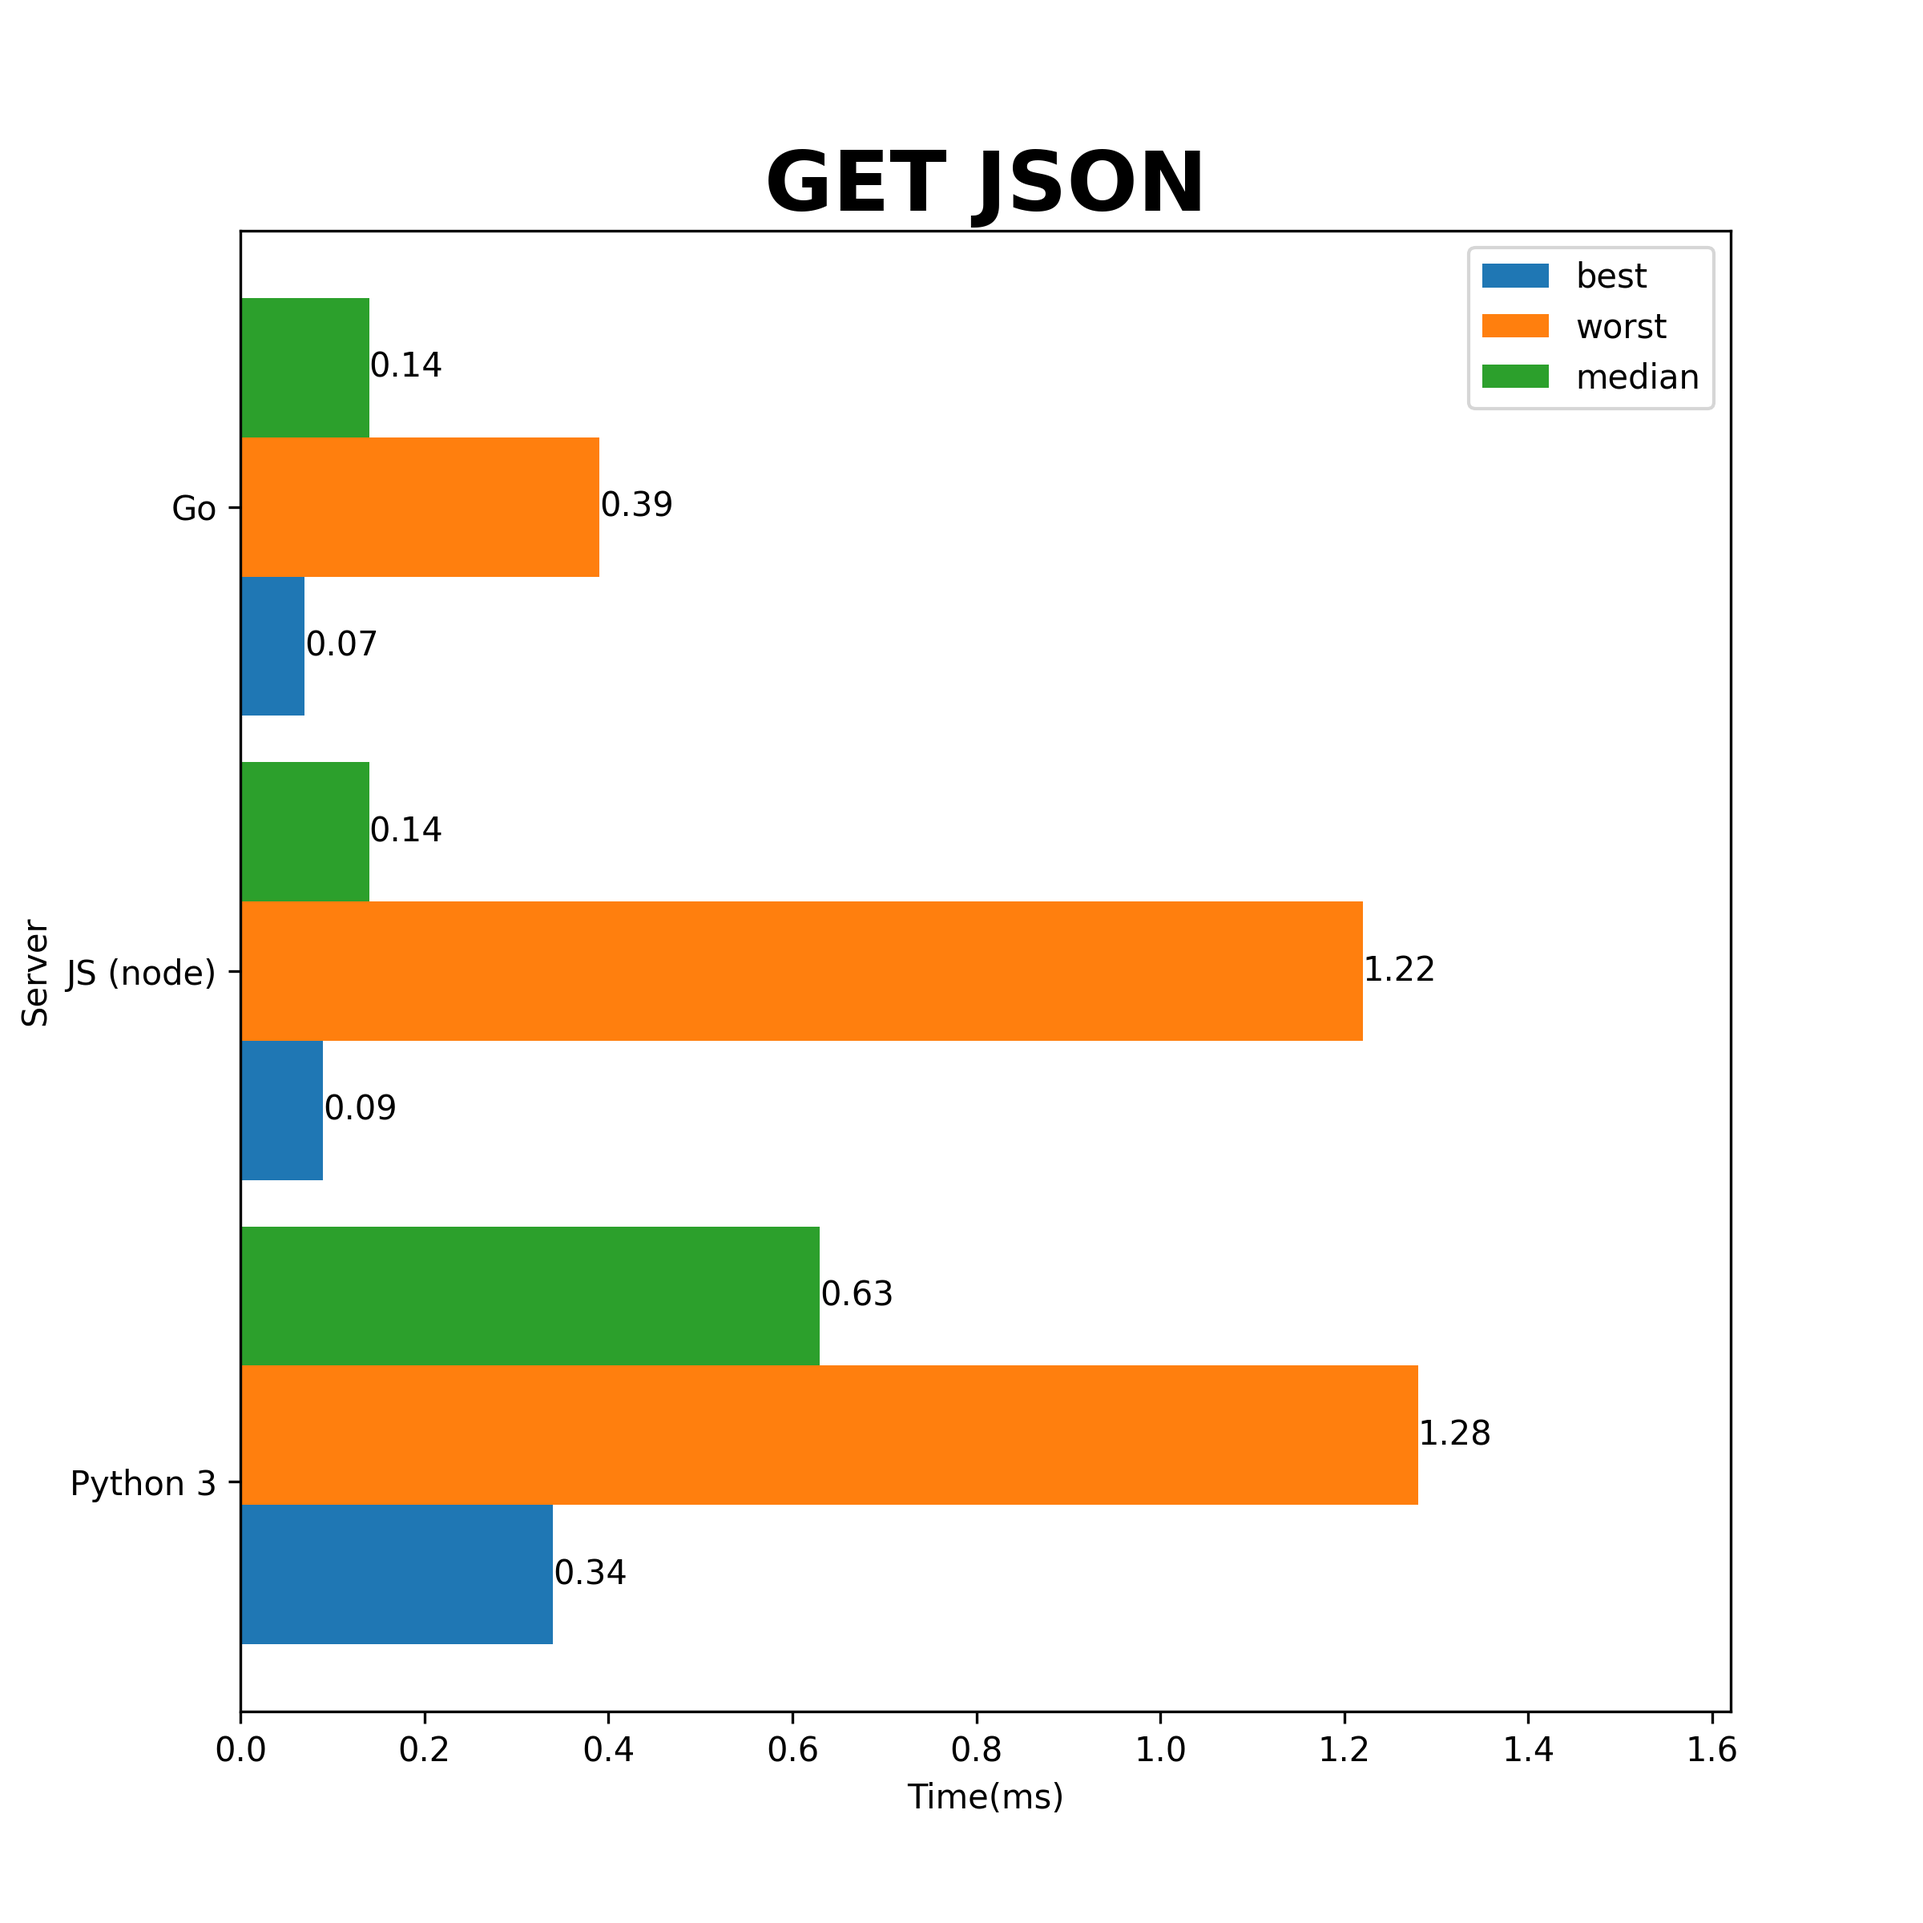
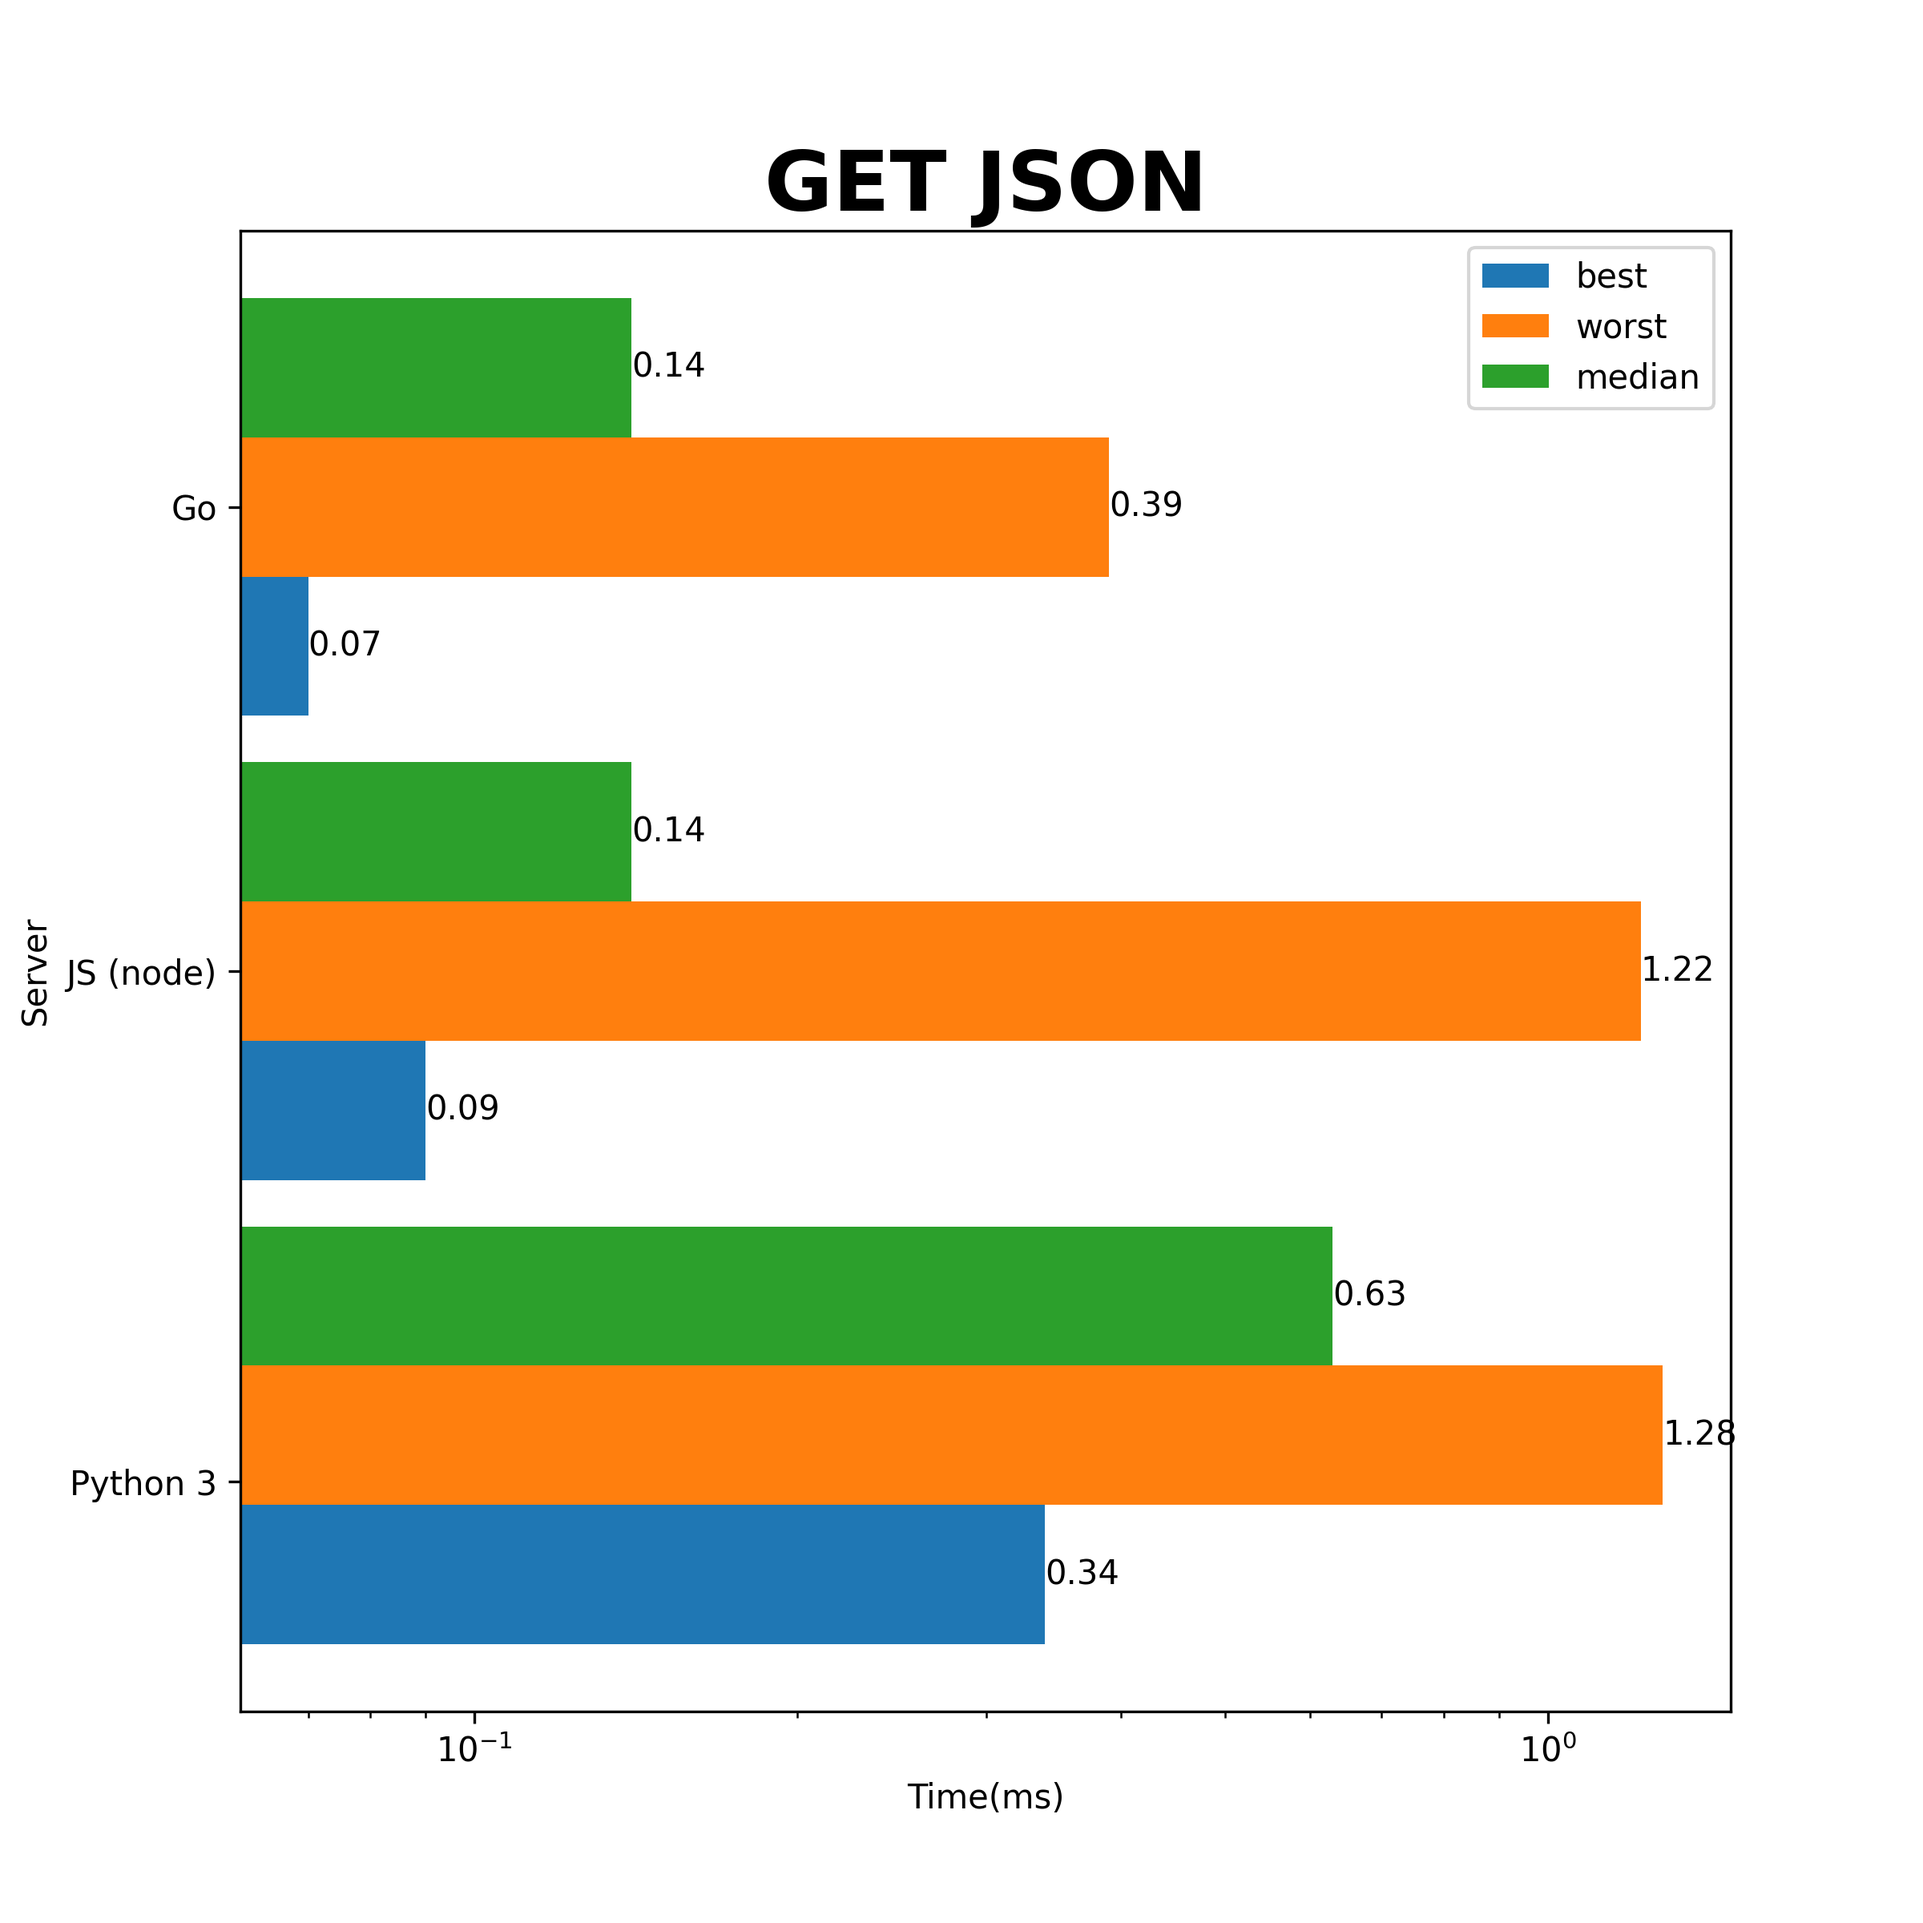
adjust server x scale

diff --git a/ServerResultProcessing.py b/ServerResultProcessing.py
@@ -49,7 +49,8 @@ def makePlot(fig,best,worst,median,title):
         s = str(median[i])
         fig.text(median[i],v,s,horizontalalignment='left',verticalalignment='center')
 
-    fig.xlim(0,max(worst) + max(best) )
+    #fig.xlim(0,max(worst) + max(best))
+    fig.xscale('log')
     fig.yticks([0.2,1.3,2.3],languages)
     fig.ylabel('Server')
     fig.xlabel('Time(ms)')
